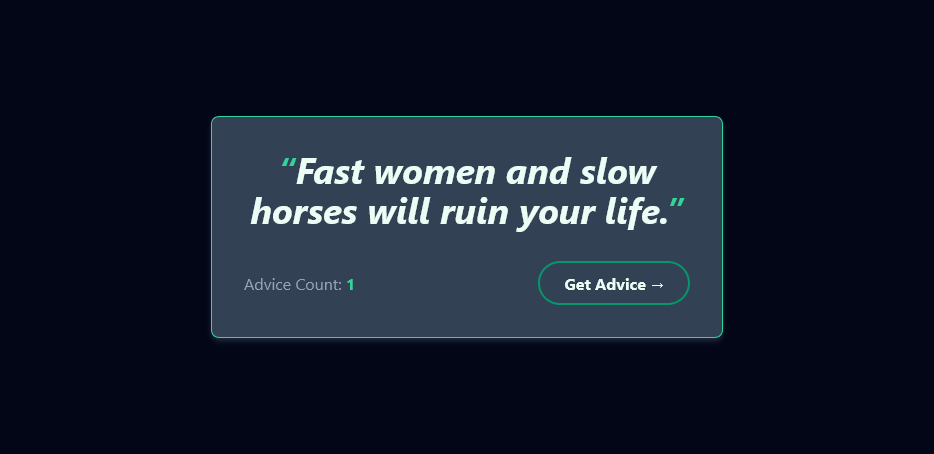
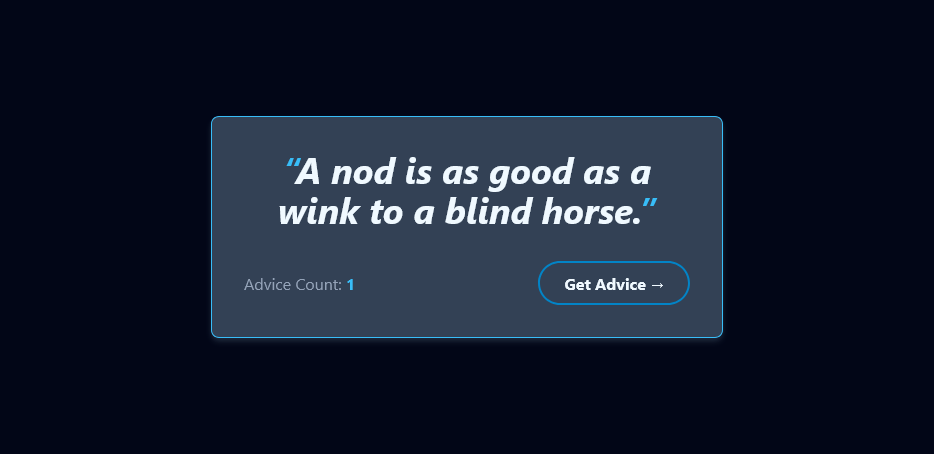
change the color theme

diff --git a/src/App.js b/src/App.js
@@ -19,16 +19,16 @@ export default function App() {
   }, []);
 
   return (
-    <div className="min-h-screen py-8 bg-slate-950 text-emerald-50 grid place-content-center">
-      <div className="max-w-lg  bg-slate-700 p-8 m-6 rounded-lg border border-emerald-400 shadow-md shadow-slate-800">
-        <h1 className="text-3xl md:text-4xl xl:text-5xl text-center font-bold italic mb-8 before:content-[open-quote] after:content-[close-quote] before:text-emerald-400 after:text-emerald-400">
+    <div className="min-h-screen py-8 bg-slate-950 text-sky-50 grid place-content-center">
+      <div className="max-w-lg  bg-slate-700 p-8 m-6 rounded-lg border border-sky-400 shadow-md shadow-slate-800">
+        <h1 className="text-3xl md:text-4xl xl:text-5xl text-center font-bold italic mb-8 before:content-[open-quote] after:content-[close-quote] before:text-sky-400 after:text-sky-400">
           {advice}
         </h1>
         <div className="flex justify-between items-center gap-8">
           <AdviceCount count={count} />
           <button
             onClick={getAdvice}
-            className="px-6 py-2 border-2 border-emerald-600 hover:bg-emerald-500 hover:border-emerald-500 font-bold rounded-full transition-colors duration-300"
+            className="px-6 py-2 border-2 border-sky-600 hover:bg-sky-500 hover:border-sky-500 font-bold rounded-full transition-colors duration-300"
           >
             Get Advice &rarr;
           </button>
@@ -41,7 +41,7 @@ export default function App() {
 const AdviceCount = ({ count }) => {
   return (
     <p className="text-slate-400">
-      Advice Count: <span className="text-emerald-400 font-bold">{count}</span>
+      Advice Count: <span className="text-sky-400 font-bold">{count}</span>
     </p>
   );
 };
